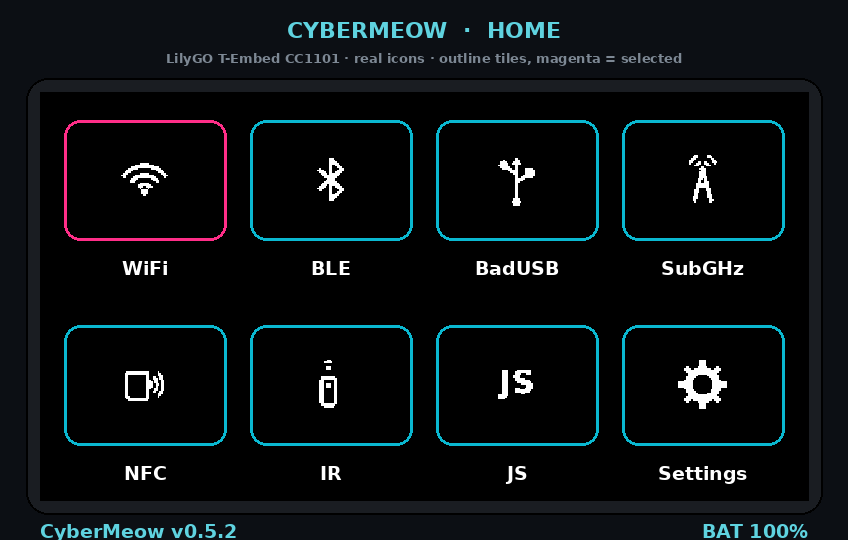
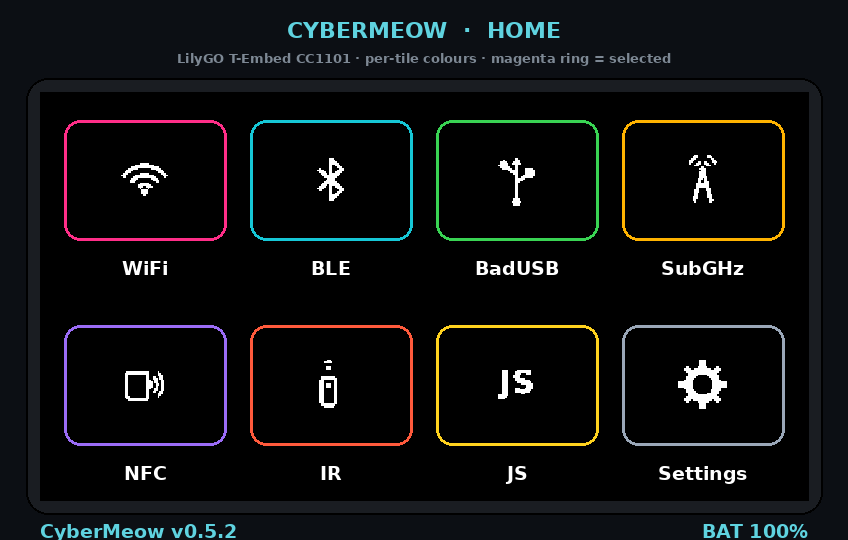
Preview: per-tile tile colours in home mock; ignore __pycache__
Claude-Session: https://claude.ai/code/session_0179Tj3jG9867nSV8xfdaoke

diff --git a/tools/preview_home.py b/tools/preview_home.py
@@ -13,15 +13,16 @@ BLACK = (0, 0, 0)
 FONT = "/usr/share/fonts/truetype/dejavu/DejaVuSans-Bold.ttf"
 
 # order matches MainPage grid: wifi, ble, badusb, subghz / nfc, ir, js, settings
+# per-tile accent colours mirror style.h (CM_WIFI..CM_SETTINGS)
 TILES = [
-    ("wifi", "WiFi", gi.icon_wifi),
-    ("ble", "BLE", gi.icon_ble),
-    ("badusb", "BadUSB", gi.icon_usb),
-    ("subghz", "SubGHz", gi.icon_subghz),
-    ("nfc", "NFC", gi.icon_nfc),
-    ("ir", "IR", gi.icon_ir),
-    ("js", "JS", gi.icon_js),
-    ("settings", "Settings", gi.icon_settings),
+    ("wifi", "WiFi", gi.icon_wifi, (0x2E, 0x9B, 0xFF)),
+    ("ble", "BLE", gi.icon_ble, (0x16, 0xC7, 0xD6)),
+    ("badusb", "BadUSB", gi.icon_usb, (0x39, 0xD3, 0x53)),
+    ("subghz", "SubGHz", gi.icon_subghz, (0xFF, 0xB3, 0x00)),
+    ("nfc", "NFC", gi.icon_nfc, (0x9B, 0x6C, 0xF6)),
+    ("ir", "IR", gi.icon_ir, (0xFF, 0x5A, 0x3C)),
+    ("js", "JS", gi.icon_js, (0xFF, 0xD2, 0x1E)),
+    ("settings", "Settings", gi.icon_settings, (0x9A, 0xA7, 0xB8)),
 ]
 SELECTED = 0  # WiFi selected (lower_limit)
 
@@ -53,7 +54,7 @@ def main():
     f_foot = ImageFont.truetype(FONT, int(13 * SCALE / 1.6))
 
     d.text((W / 2, 30), "CYBERMEOW  ·  HOME", font=f_title, fill=CYAN, anchor="mm")
-    d.text((W / 2, 58), "LilyGO T-Embed CC1101 · real icons · outline tiles, magenta = selected",
+    d.text((W / 2, 58), "LilyGO T-Embed CC1101 · per-tile colours · magenta ring = selected",
            font=f_sub, fill=(125, 136, 148), anchor="mm")
 
     # screen
@@ -70,11 +71,11 @@ def main():
     pad_y = int(12 * SCALE)
     icon_px = int(32 * SCALE * 0.7)
 
-    for i, (key, label, fn) in enumerate(TILES):
+    for i, (key, label, fn, accent) in enumerate(TILES):
         r, c = divmod(i, cols)
         bx = sx + pad_x + c * (cell_w + pad_x)
         by = sy + pad_y + r * (box_h + lbl_h + pad_y)
-        col = MAGENTA if i == SELECTED else TEAL
+        col = MAGENTA if i == SELECTED else accent
         # outline tile
         d.rounded_rectangle([bx, by, bx + cell_w, by + box_h],
                             radius=int(10 * SCALE / 1.5), outline=col, width=3)
